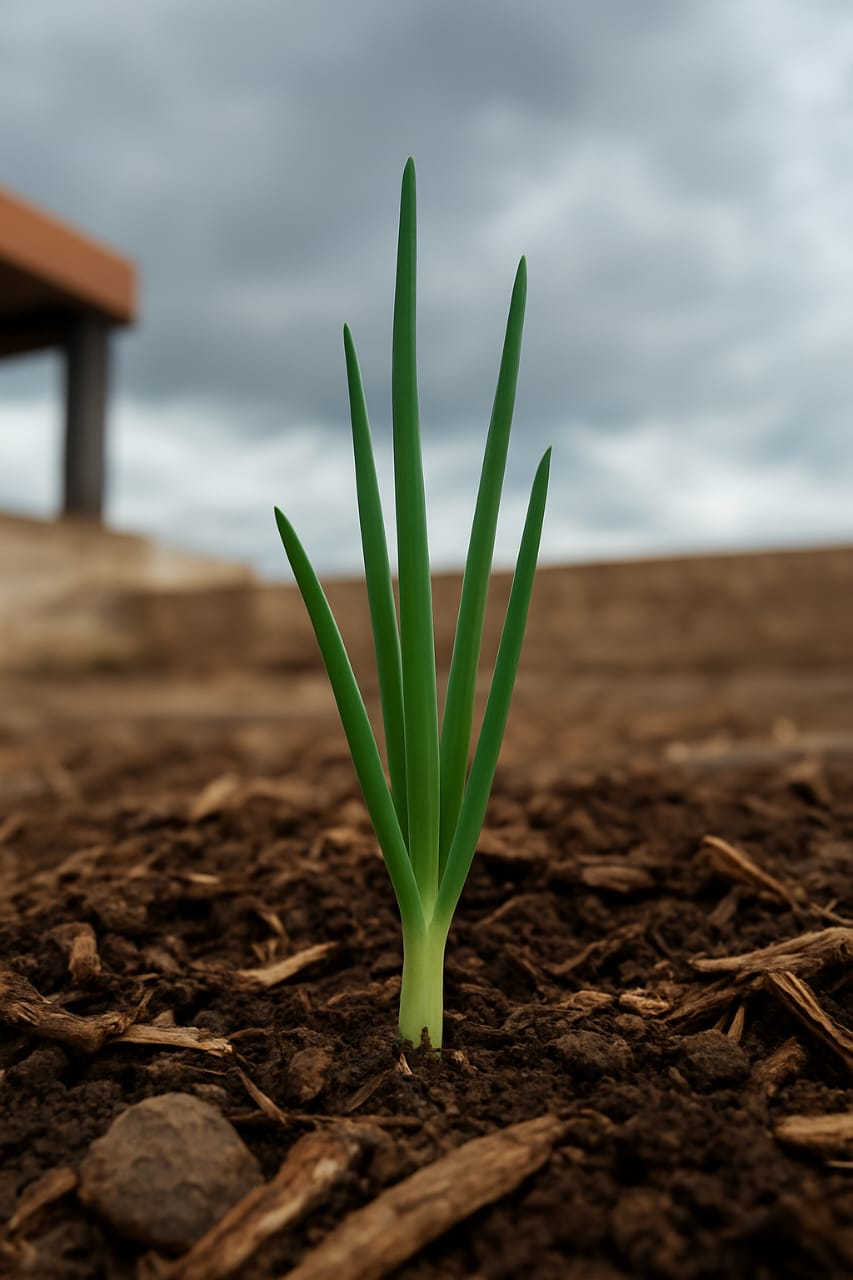
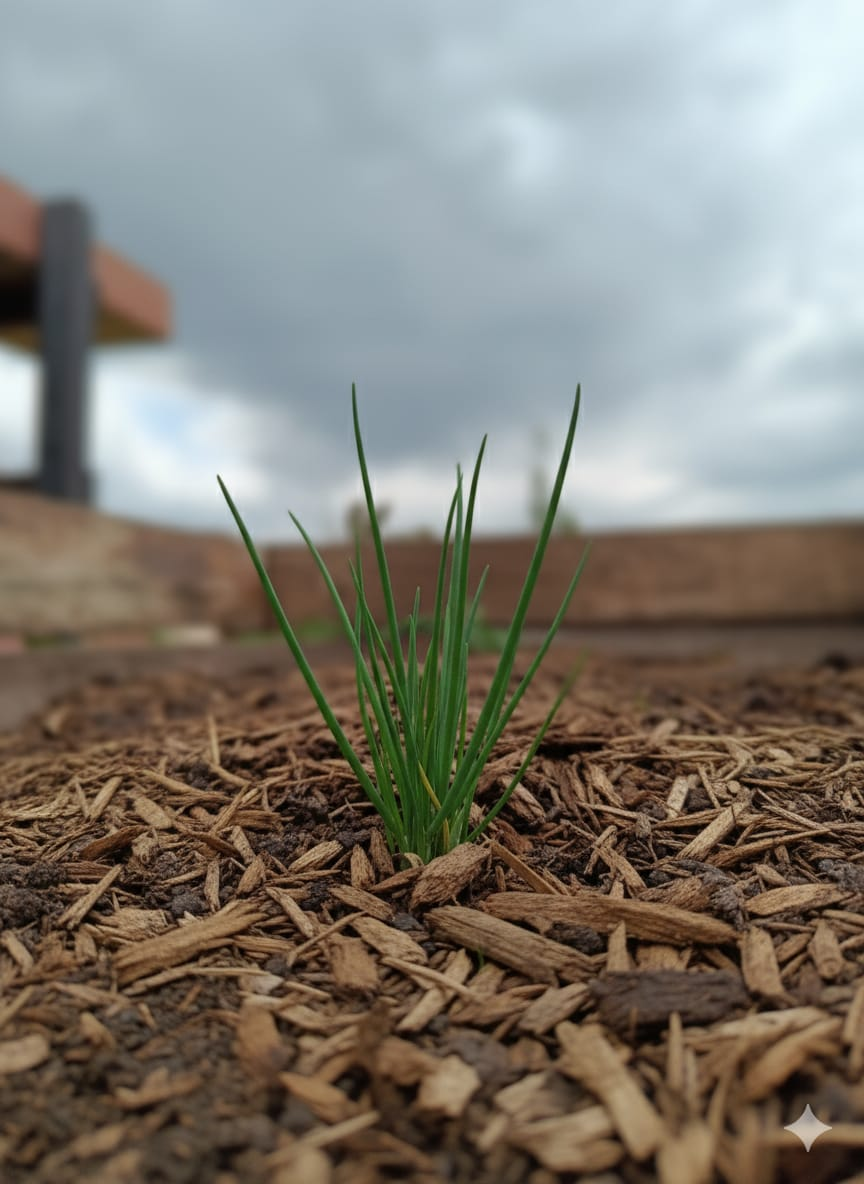
alteração de fotos

diff --git a/canteiro1.html b/canteiro1.html
@@ -74,7 +74,7 @@
     <!-- Item 5: Rúcula -->
     <div class="planta">
       <h2>Rúcula</h2>
-      <img src="fotos/rucula.png" alt="Rúcula" class="foto-planta">
+      <img src="fotos/rucula.jpg" alt="Rúcula" class="foto-planta">
 
       <p><strong>Nome científico:</strong> Eruca vesicaria</p>
       <p><strong>Descrição da planta:</strong> Folhas verdes escuras, recortadas e com sabor picante. Cresce rapidamente e é ideal para saladas.</p>

diff --git a/canteiro2.html b/canteiro2.html
@@ -14,7 +14,7 @@
     <!-- Item 1: Rúcula -->
     <div class="planta">
       <h2>Rúcula</h2>
-      <img src="fotos/rucula.png" alt="Rúcula" class="foto-planta">
+      <img src="fotos/rucula.jpg" alt="Rúcula" class="foto-planta">
 
       <p><strong>Nome científico:</strong> Eruca vesicaria</p>
       <p><strong>Descrição da planta:</strong> Folhas verdes escuras, recortadas e com sabor picante. Cresce rapidamente e é ideal para saladas.</p>
